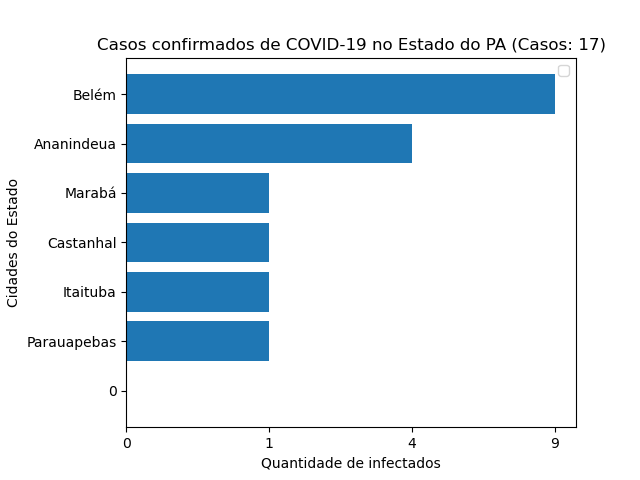
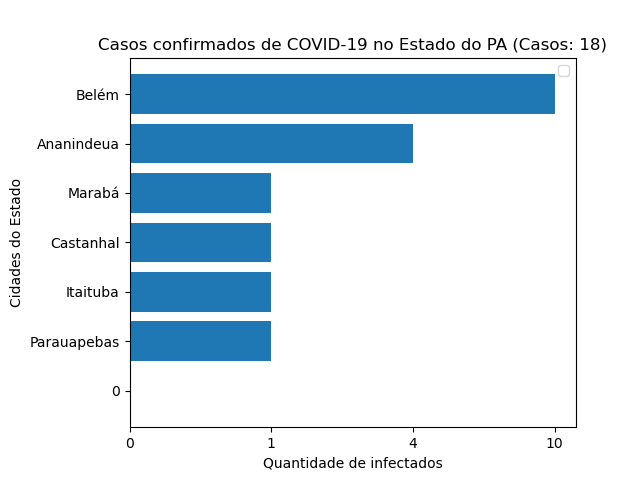
Atualização dos dados

diff --git a/Grafico_de_Barras.py b/Grafico_de_Barras.py
@@ -3,11 +3,11 @@ import matplotlib.pyplot as plt
 
 ##Valores
 cidades = ['0','Parauapebas','Itaituba','Castanhal','Marabá','Ananindeua','Belém']
-casos = ['0','1','1','1','1','4','9']
+casos = ['0','1','1','1','1','4','10']
 
 
 ##Legendar o grafico
-titulo = "Casos confirmados de COVID-19 no Estado do PA (Casos: 17)"
+titulo = "Casos confirmados de COVID-19 no Estado do PA (Casos: 18)"
 cidadesx = "Quantidade de infectados"
 casosy = "Cidades do Estado"
 
